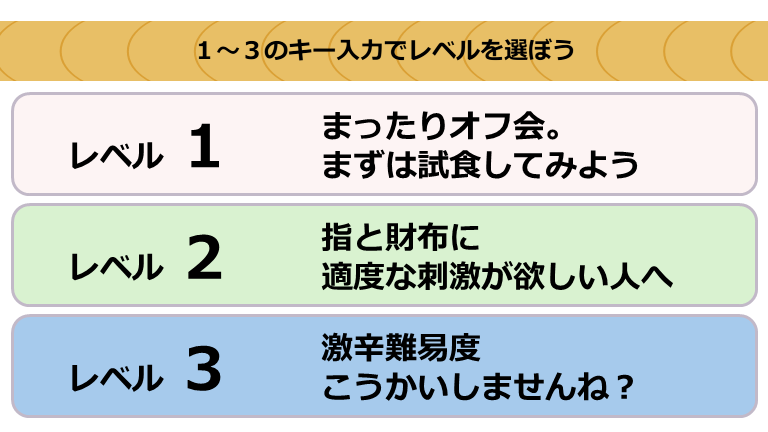
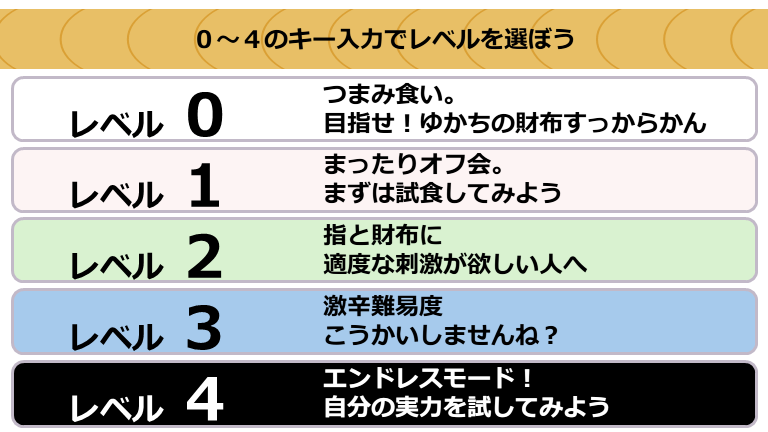
レベル0，4実装

diff --git a/yukachi_sushi/game.py b/yukachi_sushi/game.py
@@ -133,6 +133,11 @@ class SoundBank:
                 pass
 
 # ========= 画像ユーティリティ =========
+def format_mmss(t: float) -> str:
+    m = int(t // 60)
+    s = int(t % 60)
+    return f"{m:02d}:{s:02d}"
+
 def alpha_blit(dst_bgr, src_bgra, x, y):
     h, w = src_bgra.shape[:2]
     x0, y0 = int(x), int(y)
@@ -383,9 +388,9 @@ def difficulty_params(mode:int):
         DURATION_SECONDS = 120
     elif mode == 4:
         # エンドレス：時間制限なし（None）
-        BASE_SPEED   = 150.0
-        BASE_SPAWN   = 2.20
-        SPEED_GROWTH = 0.60
+        BASE_SPEED   = 95.0
+        BASE_SPAWN   = 3.50
+        SPEED_GROWTH = 0.80
         SPAWN_SHRINK = 0.010
         SPAWN_MIN    = 0.60
         DURATION_SECONDS = None
@@ -467,7 +472,8 @@ def main():
             "lock": None,
             "cleared": 0,          # これまでにクリアした皿の枚数
             "mode": current_mode,  # 難易度（0/1/2/3/4）
-            "last_nonempty_t": start_t
+            "last_nonempty_t": start_t,
+            "elapsed_total": 0.0   # 結果画面用に保存しておく経過時間
         }
 
     game = None
@@ -516,6 +522,18 @@ def main():
                         cv.putText(frame, text, (tx+dx, ty+dy), FONT, 1.6, (0,0,0), 6, cv.LINE_AA)
                 cv.putText(frame, text, (tx, ty), FONT, 1.6, (255,255,255), 3, cv.LINE_AA)
 
+                # 経過時間表示（mm:ss）
+                num2 = str(game.get("mode", 2))
+                if "4" == num2:
+                    etxt = f"Time: {format_mmss(game.get('elapsed_total', 0.0))}"
+                    (twE, thE), _ = cv.getTextSize(etxt, FONT, 1.2, 2)
+                    txE, tyE = (W - twE)//2, ty + 50
+                    for dx in (-2,0,2):
+                        for dy in (-2,0,2):
+                            cv.putText(frame, etxt, (txE+dx, tyE+dy), FONT, 1.2, (0,0,0), 5, cv.LINE_AA)
+                    cv.putText(frame, etxt, (txE, tyE), FONT, 1.2, (255,255,255), 2, cv.LINE_AA)
+
+
                 # 右側黒帯の数字のみ（1）クリア枚数（2）難易度番号
                 num1 = str(game.get("cleared", 0))
                 (scale1, thick1) = (3.0, 6)
@@ -530,10 +548,17 @@ def main():
                 (scale2, thick2) = (2.6, 6)
                 (tw2, th2), _ = cv.getTextSize(num2, FONT, scale2, thick2)
                 tx2, ty2 = W // 2, 400 + th2//2
-                for dx in (-3,0,3):
-                    for dy in (-3,0,3):
-                        cv.putText(frame, num2, (tx2+dx, ty2+dy), FONT, scale2, (0,0,0), thick2+4, cv.LINE_AA)
-                cv.putText(frame, num2, (tx2, ty2), FONT, scale2, (255,255,255), thick2, cv.LINE_AA)
+                if not num2 == "4":
+                    for dx in (-3,0,3):
+                        for dy in (-3,0,3):
+                            cv.putText(frame, num2, (tx2+dx, ty2+dy), FONT, scale2, (0,0,0), thick2+4, cv.LINE_AA)
+                    cv.putText(frame, num2, (tx2, ty2), FONT, scale2, (255,255,255), thick2, cv.LINE_AA)
+                else:
+                    for dx in (-3,0,3):
+                        for dy in (-3,0,3):
+                            cv.putText(frame, "Endless!", (tx2+dx-150, ty2+dy), FONT, scale2, (0,0,0), thick2+20, cv.LINE_AA)
+                    cv.putText(frame, "Endless!", (tx2-150, ty2), FONT, scale2, (255,255,255), thick2, cv.LINE_AA)
+
 
                 cv.imshow("Yukakko Sushi (ESC to quit)", frame)
                 k = cv.waitKey(20) & 0xFF
@@ -610,8 +635,9 @@ def main():
         cv.putText(frame, f"Score: {game['score']}", (20, 40), FONT, 0.9, (30,30,30), 2, cv.LINE_AA)
         cv.putText(frame, f"Combo: x{game['combo']}", (20, 80), FONT, 0.9, (60,60,60), 2, cv.LINE_AA)
         cv.putText(frame, f"Lives: {game['lives']}", (20, 120), FONT, 0.9, (0,0,180), 2, cv.LINE_AA)
-        if remaining is None:
-            cv.putText(frame, "Time Left: \u221E", (W-280, 40), FONT, 0.9, (30,30,30), 2, cv.LINE_AA)  # ∞
+
+        if remaining is None and game["mode"] == 4:
+            cv.putText(frame, f"Elapsed: {format_mmss(elapsed)}", (W-280, 40), FONT, 0.9, (30,30,30), 2, cv.LINE_AA)
         else:
             cv.putText(frame, f"Time Left: {int(np.ceil(remaining))}s", (W-280, 40), FONT, 0.9, (30,30,30), 2, cv.LINE_AA)
 
@@ -633,6 +659,7 @@ def main():
         # ---- 終了判定 ----
         if (game["time_limit"] is not None) and (remaining is not None) and (remaining <= 0.0):
             game["timeup"] = True
+            game["elapsed_total"] = elapsed  # ★追加
             state = STATE_OVER
             cv.imshow("Yukakko Sushi (ESC to quit)", frame); cv.waitKey(1)
             if window_closed():
@@ -640,6 +667,7 @@ def main():
             continue
         if game["lives"] <= 0:
             game["timeup"] = False
+            game["elapsed_total"] = elapsed  # ★追加
             state = STATE_OVER
             cv.imshow("Yukakko Sushi (ESC to quit)", frame); cv.waitKey(1)
             if window_closed():
